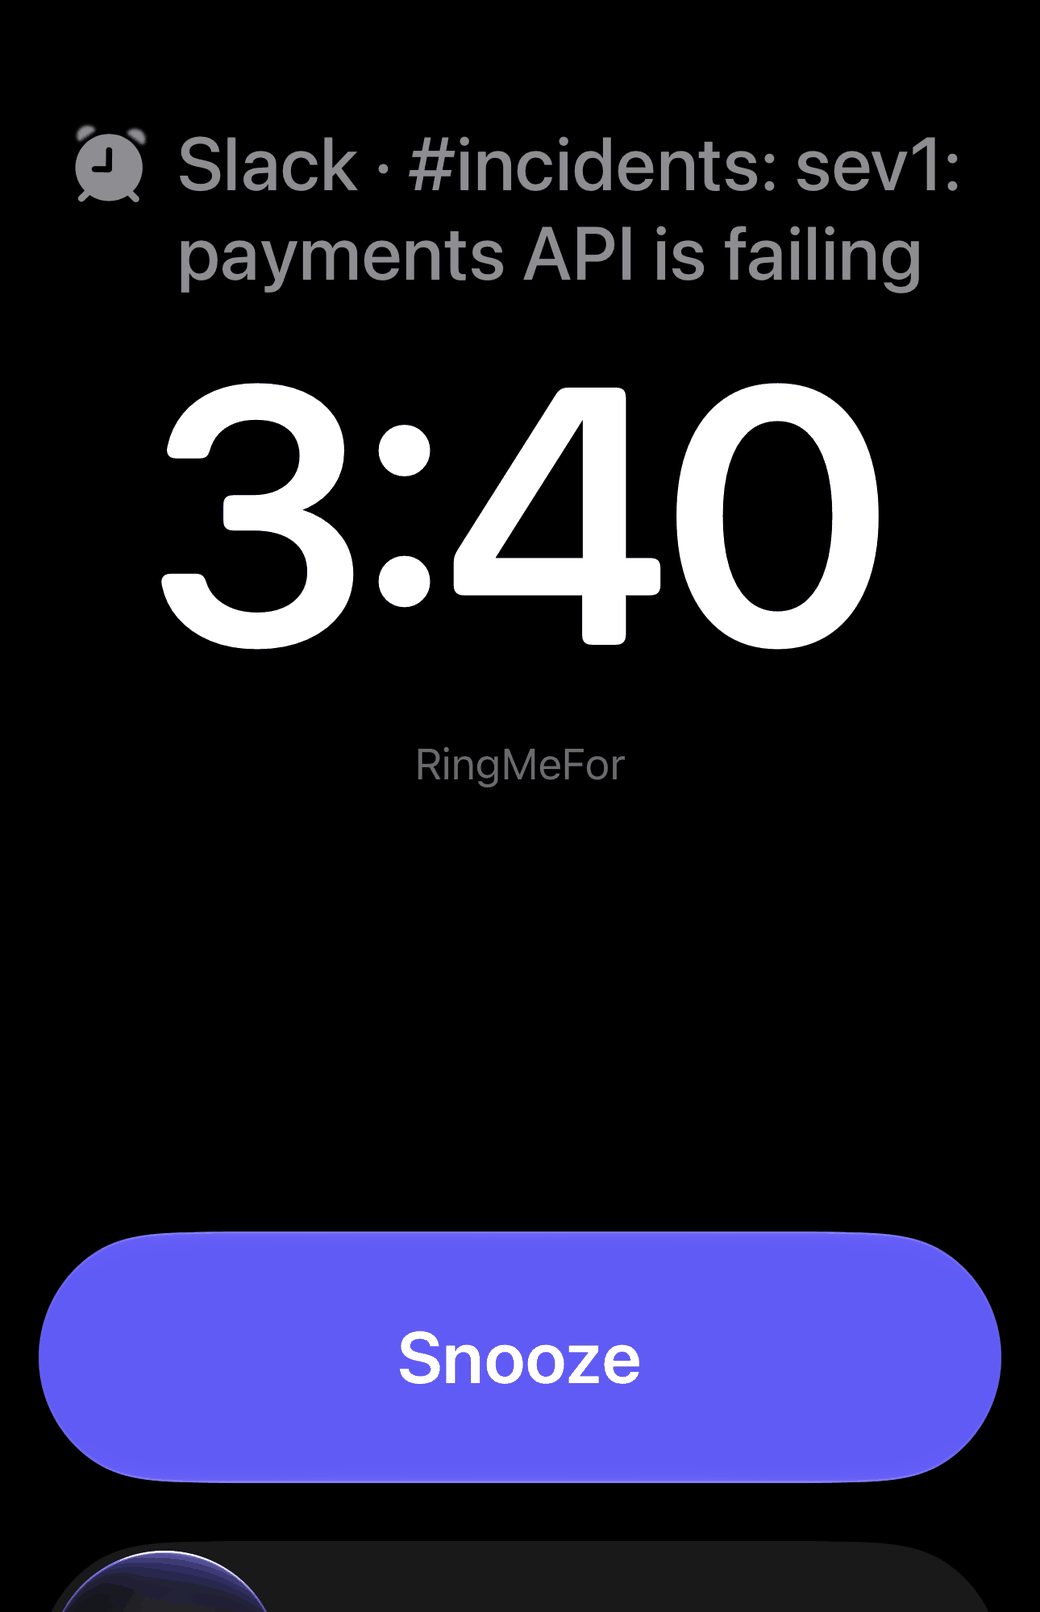
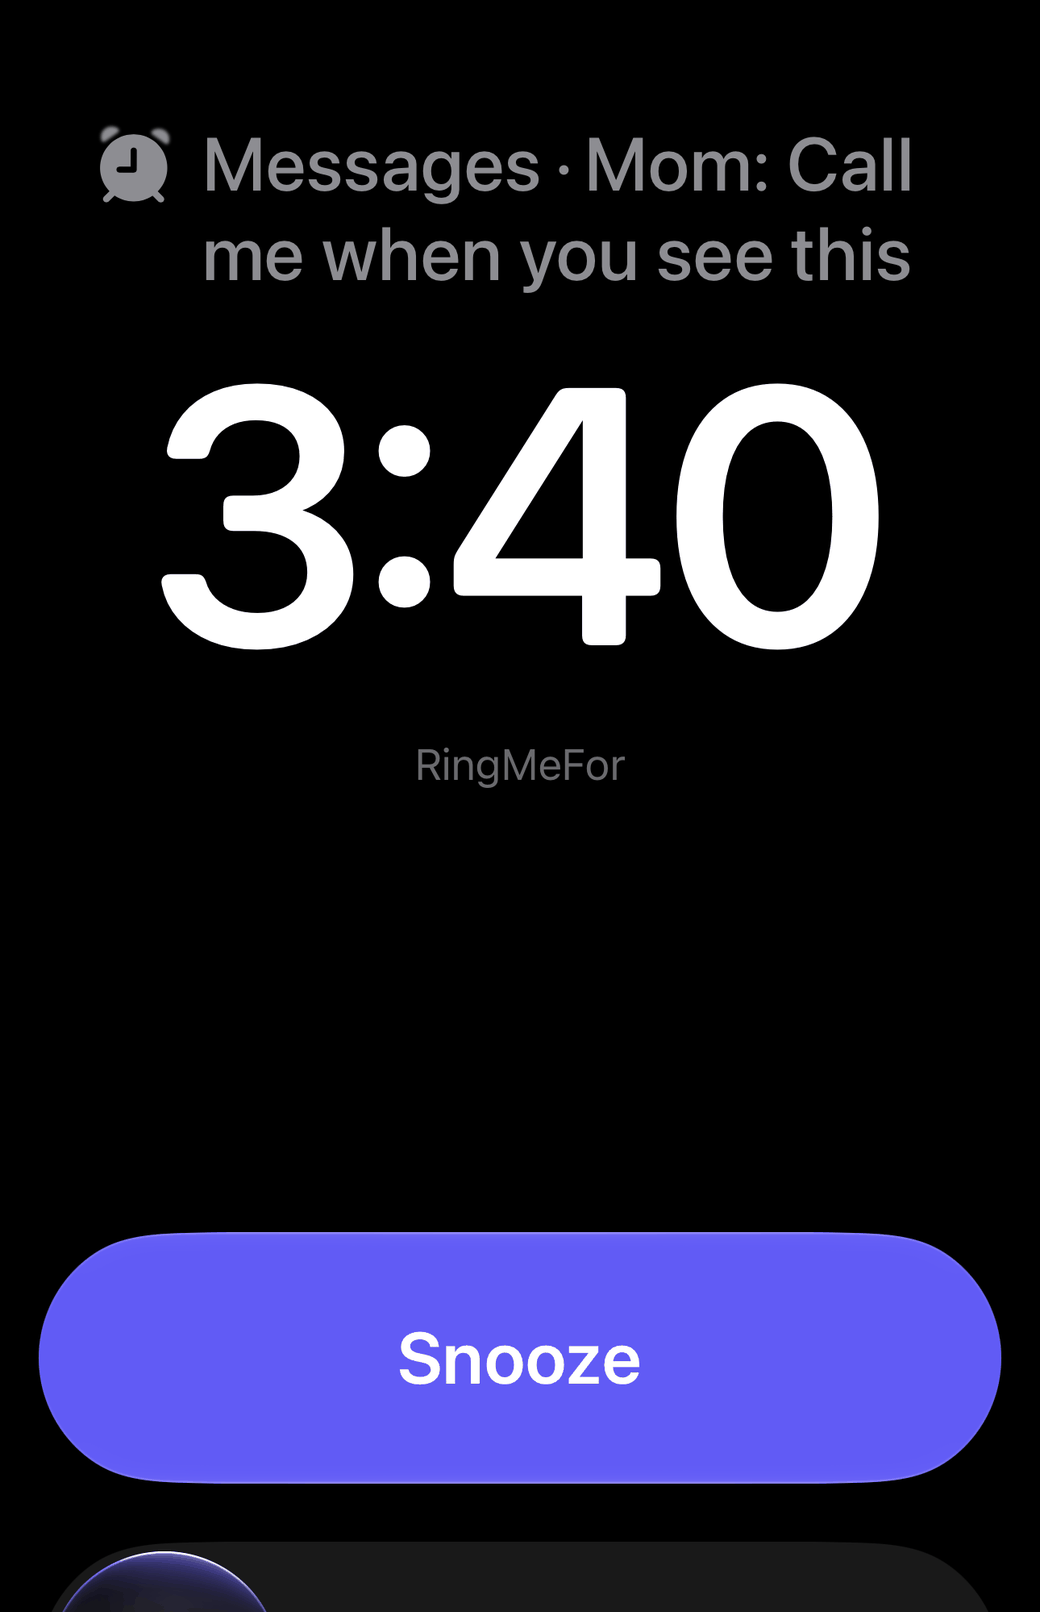
New Lock Screen alarm images and the 3:40 example
Claude-Session: https://claude.ai/code/session_014NKZs675oedrtAJAJBA9sZ

Changed region(s): [[0.0615, 0.062, 0.9231, 0.1861], [0.5846, 0.8375, 0.6154, 0.8685]]

diff --git a/index.html b/index.html
@@ -110,7 +110,7 @@
         </li>
         <li>
           <button class="tour-item" type="button" aria-pressed="false" data-shot="3"><span class="tour-ask">A real alarm, even on Silent.</span><span class="tour-more">It rings like the Clock app's alarms, through Silent mode and Focus, with Snooze and slide to stop.</span><span class="tour-time" aria-hidden="true"></span></button>
-          <figure class="phone tour-mini"><div class="phone-edge"><div class="phone-glass"><div class="phone-screen"><img src="images/app/alarm-0648.webp" width="660" height="1434" alt="The alarm on the Lock Screen at 6:48: Slack, #incidents: Checkout is down, with Snooze and slide to stop." loading="lazy" decoding="async"></div><span class="phone-island" hidden aria-hidden="true"></span></div></div></figure>
+          <figure class="phone tour-mini"><div class="phone-edge"><div class="phone-glass"><div class="phone-screen"><img src="images/app/alarm-0648.webp" width="660" height="1434" alt="The alarm on the Lock Screen at 6:48: Slack, #on-call: Database unreachable, with Snooze and slide to stop." loading="lazy" decoding="async"></div><span class="phone-island" hidden aria-hidden="true"></span></div></div></figure>
         </li>
         <li>
           <button class="tour-item" type="button" aria-pressed="false" data-shot="4"><span class="tour-ask">See why it rang, or why it stayed quiet.</span><span class="tour-more">History keeps every alarm and every match that stayed quiet, with the rule and the reason.</span><span class="tour-time" aria-hidden="true"></span></button>
@@ -118,7 +118,7 @@
         </li>
       </ol>
       </div>
-      <figure class="phone tour-phone"><div class="phone-edge"><div class="phone-glass"><div class="phone-screen"><img class="is-on" src="images/app/home.webp" width="660" height="1434" alt="RingMeFor's Home screen: On, a Work group with Slack, Microsoft Teams and Outlook, each connected and showing what it last rang for, then Gmail and Calendar." decoding="async"><img src="images/app/rule.webp" width="660" height="1434" alt="A rule called On call that rings for certain words, outage, P1, unreachable and @channel, or for messages from Nadia Brooks." loading="lazy" decoding="async"><img src="images/app/rule-alarm.webp" width="660" height="1434" alt="The rule's alarm settings: the Reactor sound, 8 dB louder, a second button that opens Slack, and Ring again every 2 minutes." loading="lazy" decoding="async"><img data-island="off" src="images/app/alarm-0648.webp" width="660" height="1434" alt="The alarm on the Lock Screen at 6:48: Slack, #incidents: Checkout is down, with Snooze and slide to stop." loading="lazy" decoding="async"><img src="images/app/history.webp" width="660" height="1434" alt="History: this week, 5 alarms from 1,748 notifications. Microsoft Teams from Alex Morgan and Slack #on-call rang, each with the rule it matched." loading="lazy" decoding="async"></div><span class="phone-island" aria-hidden="true"></span></div></div></figure>
+      <figure class="phone tour-phone"><div class="phone-edge"><div class="phone-glass"><div class="phone-screen"><img class="is-on" src="images/app/home.webp" width="660" height="1434" alt="RingMeFor's Home screen: On, a Work group with Slack, Microsoft Teams and Outlook, each connected and showing what it last rang for, then Gmail and Calendar." decoding="async"><img src="images/app/rule.webp" width="660" height="1434" alt="A rule called On call that rings for certain words, outage, P1, unreachable and @channel, or for messages from Nadia Brooks." loading="lazy" decoding="async"><img src="images/app/rule-alarm.webp" width="660" height="1434" alt="The rule's alarm settings: the Reactor sound, 8 dB louder, a second button that opens Slack, and Ring again every 2 minutes." loading="lazy" decoding="async"><img data-island="off" src="images/app/alarm-0648.webp" width="660" height="1434" alt="The alarm on the Lock Screen at 6:48: Slack, #on-call: Database unreachable, with Snooze and slide to stop." loading="lazy" decoding="async"><img src="images/app/history.webp" width="660" height="1434" alt="History: this week, 5 alarms from 1,748 notifications. Microsoft Teams from Alex Morgan and Slack #on-call rang, each with the rule it matched." loading="lazy" decoding="async"></div><span class="phone-island" aria-hidden="true"></span></div></div></figure>
     </div>
   </div>
 </section>
@@ -146,11 +146,11 @@
       <li class="night">
         <div class="night-inner">
           <div class="night-log">
-            <div class="ring"><p class="app">Slack, #on-call</p><time datetime="03:40">03:40</time><p class="msg">P1 error rate at 30%</p><p class="rule">Rang for your rule: Ring me for Slack when it says “P1”, and ring again if I sleep through <span class="nowrap">it.&nbsp;<span class="mark">Pro</span></span></p></div>
+            <div class="ring"><p class="app">Messages, Mom</p><time datetime="03:40">03:40</time><p class="msg">Call me when you see this</p><p class="rule">Rang for your rule: Ring me for Messages from Mom, and ring again if I sleep through <span class="nowrap">it.&nbsp;<span class="mark">Pro</span></span></p></div>
             <div class="again"><time datetime="03:42">03:42</time><p>Rang again. Stopped at 03:43.</p></div>
           </div>
           <figure class="capture">
-            <img src="images/alarm-0340.png" width="1040" height="1612" alt="The alarm on the Lock Screen at 3:40: Slack, #incidents: sev1: payments API is failing, with Snooze below.">
+            <img src="images/alarm-0340.png" width="1040" height="1612" alt="The alarm on the Lock Screen at 3:40: Messages, Mom: Call me when you see this, with Snooze below.">
           </figure>
         </div>
       </li>
